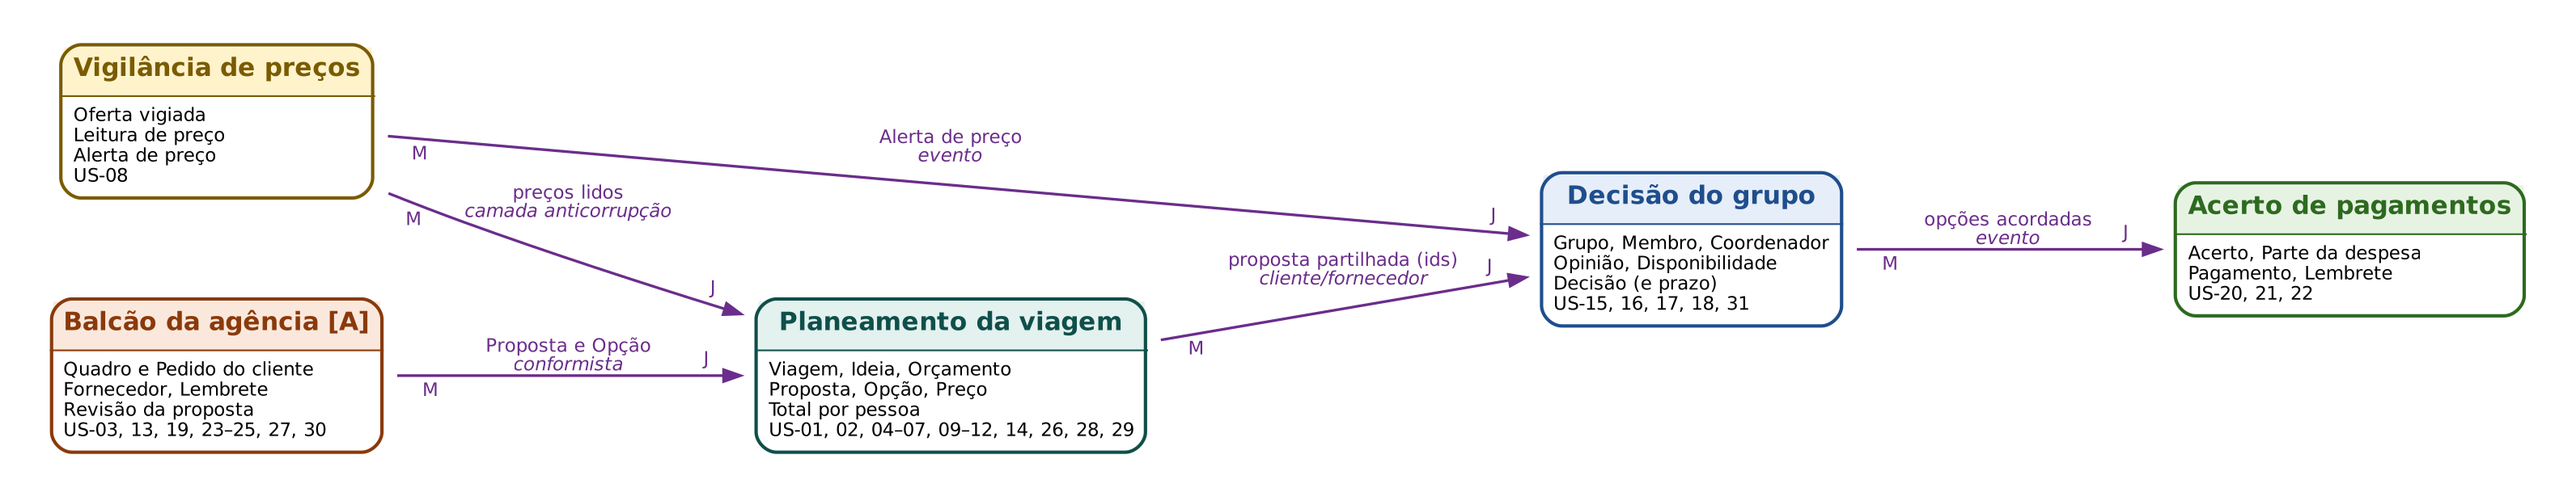
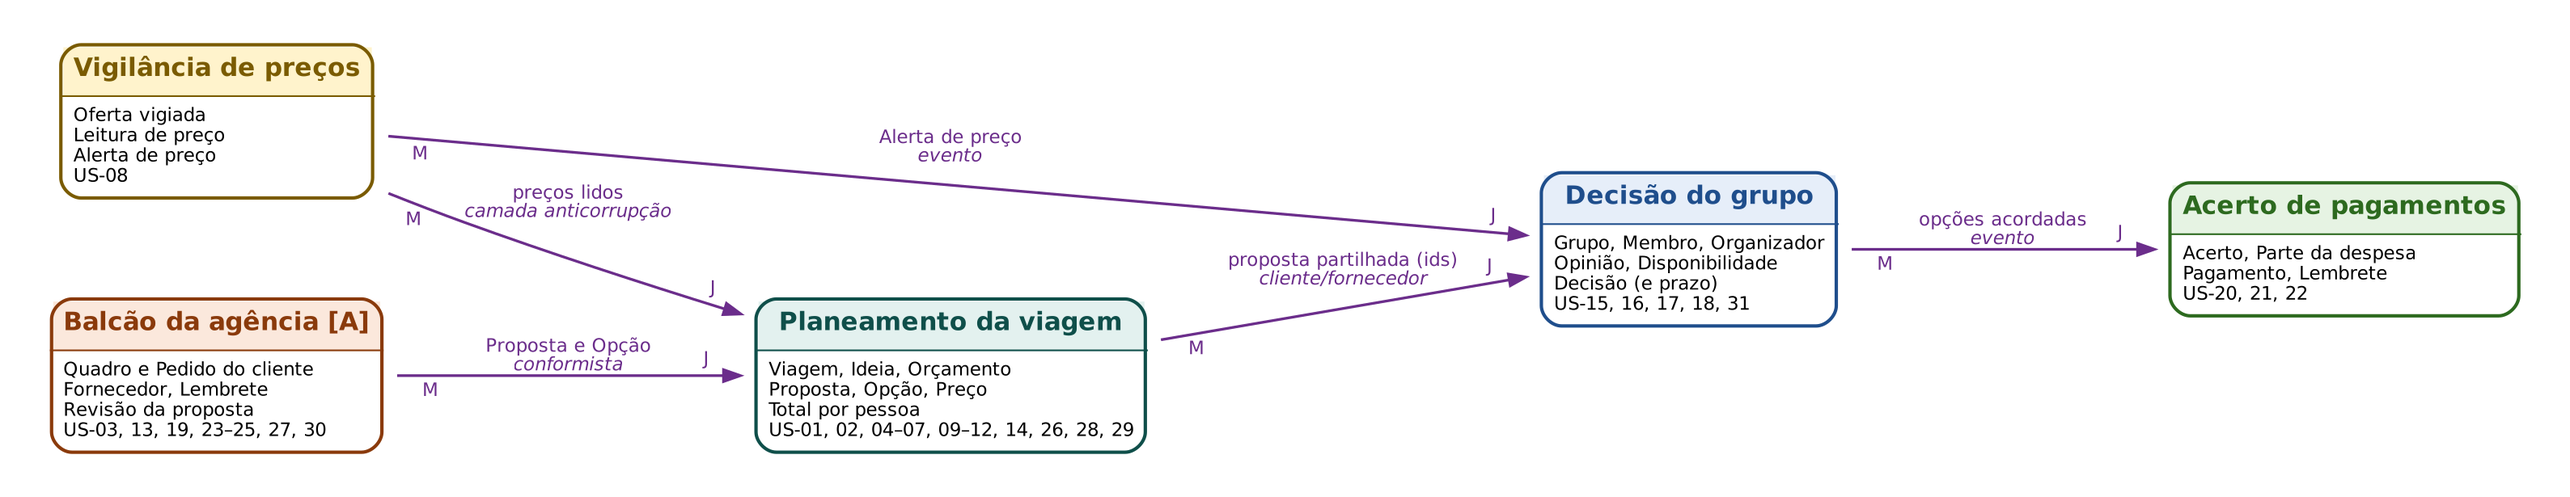
trocar coordenador por organizador

diff --git a/DOCS/2nd_submission/ddd/contextos_delimitados.tex b/DOCS/2nd_submission/ddd/contextos_delimitados.tex
@@ -8,8 +8,8 @@ O sistema divide-se em cinco contextos delimitados. Cada um tem a sua parte da l
 \toprule \textbf{Contexto} & \textbf{Responsabilidade} & \textbf{Possui} & \textbf{Regras que garante} & \textbf{Histórias} \\ \midrule \endhead
 \textbf{Planeamento da viagem} & Monta a proposta de viagem e diz quanto custa por pessoa. & Viagem (raiz do agregado), Ideia, Orçamento, Proposta, Opção (voo, alojamento, atividade), Preço e Total por pessoa. & O total por pessoa soma só as opções não cortadas e inclui o transporte até ao aeroporto; os extras que o site esconde aparecem \guillemotleft{}por confirmar\guillemotright{}, nunca são omitidos; o Roamly avisa quando o total passa o limite por pessoa. & US-01, 02, 04, 05, 06, 07, 09, 10, 11, 12, 14, 26, 28, 29 \\ \midrule
 \textbf{Vigilância de preços} & Volta a ler continuamente as ligações guardadas e avisa quando o preço sobe. & Oferta vigiada, Leitura de preço e Alerta de preço. & Um alerta mostra só de quanto o preço subiu, sem mensagens de urgência; se a oferta deixa de ser legível, avisa que o preço pode estar desatualizado; o Roamly não congela preços nem reserva. & US-08 (e a leitura automática das US-04 e US-05) \\ \midrule
-\textbf{Decisão do grupo} & Recolhe o que cada pessoa pensa e regista o que o grupo combinou. & Grupo, Membro, Coordenador (o(a) organizador(a) das histórias), Opinião, Disponibilidade e Decisão (com prazo). & Um grupo tem exatamente um coordenador; o coordenador vê em que itens há divergência e quem ainda não respondeu; a decisão fica registada mesmo que faltem respostas, e todos os membros a veem. & US-15, 16, 17, 18, 31 \\ \midrule
-\textbf{Acerto de pagamentos} & Calcula quanto cada pessoa deve e acompanha quem já pagou. & Acerto (raiz do agregado), Parte da despesa, Pagamento e Lembrete de pagamento. & Só o coordenador marca um pagamento como feito; se alguém sai do grupo, as partes dos restantes são recalculadas; o Roamly regista pagamentos mas não os processa. & US-20, 21, 22 \\ \midrule
+\textbf{Decisão do grupo} & Recolhe o que cada pessoa pensa e regista o que o grupo combinou. & Grupo, Membro, Coordenador (o(a) organizador(a) das histórias), Opinião, Disponibilidade e Decisão (com prazo). & Um grupo tem exatamente um organizador; o organizador vê em que itens há divergência e quem ainda não respondeu; a decisão fica registada mesmo que faltem respostas, e todos os membros a veem. & US-15, 16, 17, 18, 31 \\ \midrule
+\textbf{Acerto de pagamentos} & Calcula quanto cada pessoa deve e acompanha quem já pagou. & Acerto (raiz do agregado), Parte da despesa, Pagamento e Lembrete de pagamento. & Só o organizador marca um pagamento como feito; se alguém sai do grupo, as partes dos restantes são recalculadas; o Roamly regista pagamentos mas não os processa. & US-20, 21, 22 \\ \midrule
 \textbf{Balcão da agência {[A]}} & Dá ao agente de viagens um espaço de trabalho por cliente (só na versão para agências). & Quadro do cliente (raiz do agregado), Pedido do cliente, Lembrete no quadro, Fornecedor e Revisão da proposta. & O cliente não vê a proposta antes de o agente a assinar; um pedido com dados em falta é assinalado antes de se montar a proposta; um fornecedor sem preço aparece \guillemotleft{}sem preço\guillemotright{}, nunca como 0 \texteuro{}. & US-03, 13, 19, 23, 24, 25, 27, 30 \\ \bottomrule
 \end{longtable}
 
@@ -23,7 +23,7 @@ O sistema divide-se em cinco contextos delimitados. Cada um tem a sua parte da l
  & Acerto de pagamentos & Não existe como proposta: só as opções acordadas interessam, e transformam-se em partes da despesa. \\
  & Balcão da agência & Um documento no modelo da agência, com logótipo, que o cliente só vê depois de o agente o assinar. \\
 \midrule
-\textbf{Membro} & Decisão do grupo & Pessoa do grupo que dá opinião e indica datas; o coordenador é o membro com o papel de planear. \\
+\textbf{Membro} & Decisão do grupo & Pessoa do grupo que dá opinião e indica datas; o organizador é o membro com o papel de planear. \\
  & Acerto de pagamentos & Devedor de uma parte da despesa; não pode marcar pagamentos. \\
  & Vigilância de preços & Destinatário dos alertas de preço. \\
  & Balcão da agência & Não existe: quem recebe a proposta é o cliente, que não faz parte de nenhum grupo. \\
@@ -38,9 +38,9 @@ O sistema divide-se em cinco contextos delimitados. Cada um tem a sua parte da l
  & Acerto de pagamentos & O montante devido por cada membro (ex.: 98 \texteuro{}). \\
 \midrule
 \textbf{Total por pessoa / Parte da despesa} & Planeamento da viagem & Total por pessoa: estimativa que muda sempre que um item muda e se compara com o limite. \\
- & Acerto de pagamentos & Parte da despesa: valor fixado depois de as opções serem acordadas, com o total que o coordenador tem de adiantar. \\
+ & Acerto de pagamentos & Parte da despesa: valor fixado depois de as opções serem acordadas, com o total que o organizador tem de adiantar. \\
 \midrule
-\textbf{Reservar} & Decisão do grupo e Acerto & O Roamly não reserva: \guillemotleft{}reservar\guillemotright{} é o coordenador sair do Roamly e reservar no site do fornecedor. \\
+\textbf{Reservar} & Decisão do grupo e Acerto & O Roamly não reserva: \guillemotleft{}reservar\guillemotright{} é o organizador sair do Roamly e reservar no site do fornecedor. \\
 \bottomrule
 \end{longtable}
 
@@ -56,7 +56,7 @@ O sistema divide-se em cinco contextos delimitados. Cada um tem a sua parte da l
 \caption{Relações entre contextos.}\label{tab:relacoes}\\
 \toprule \textbf{A montante} & \textbf{A jusante} & \textbf{Relação} & \textbf{O que passa} & \textbf{Histórias} \\ \midrule \endfirsthead
 \toprule \textbf{A montante} & \textbf{A jusante} & \textbf{Relação} & \textbf{O que passa} & \textbf{Histórias} \\ \midrule \endhead
-Vigilância de preços & Planeamento da viagem & Camada anticorrupção (no Planeamento) & Os preços lidos nos sites passam a ser o Preço de uma Opção; se a página não for legível, o coordenador preenche à mão. & US-04, 05, 08 \\
+Vigilância de preços & Planeamento da viagem & Camada anticorrupção (no Planeamento) & Os preços lidos nos sites passam a ser o Preço de uma Opção; se a página não for legível, o organizador preenche à mão. & US-04, 05, 08 \\
 Planeamento da viagem & Decisão do grupo & Cliente/Fornecedor & A proposta partilhada; a Decisão do grupo só guarda IdDaProposta e IdDaOpção e vê sempre a versão atualizada. & US-14, 15, 16 \\
 Vigilância de preços & Decisão do grupo & Evento publicado & O Alerta de preço chega a todos os membros do grupo, haja ou não prazo. & US-08 \\
 Decisão do grupo & Acerto de pagamentos & Evento publicado & As opções acordadas dão origem às partes da despesa. & US-18, 20 \\

diff --git a/DOCS/2nd_submission/ddd/glossario.tex b/DOCS/2nd_submission/ddd/glossario.tex
@@ -6,7 +6,7 @@
 \multicolumn{2}{@{}l}{\textbf{Planeamento da viagem}} \\ \midrule
 Viagem & A viagem que o grupo quer fazer: destino, datas possíveis e tudo o que se planeia à volta. É a raiz do contexto.  \\
 Ideia & Uma ligação de vídeo ou um texto que dá início a uma viagem, guardada com a origem à vista. O sistema nunca interpreta o vídeo; pede o destino em texto.  \\
-Orçamento & O limite por pessoa definido pelo coordenador. Todos os preços mostrados são comparados com ele.  \\
+Orçamento & O limite por pessoa definido pelo organizador. Todos os preços mostrados são comparados com ele.  \\
 Proposta & O que o grupo vê para decidir: as opções, os preços e o total por pessoa, partilhados numa só ligação. Reflete sempre as alterações posteriores.  \\
 Opção & Uma coisa que pode entrar numa proposta (voo, alojamento ou atividade), com ligação de origem, preço e estado: candidata, cortada (riscada mas visível) ou acordada.  \\
 Opção de voo / alojamento / atividade & Tipos de Opção. Um voo sabe se não há transporte para o aeroporto à hora de partida; um alojamento tem noites e preço por noite; uma atividade (do roteiro da IA) fica confirmada ou descartada depois de verificada no mapa.  \\
@@ -14,23 +14,23 @@ Preço & Preço base mais extras (p. ex. bagagem de porão), dando o preço fina
 Total por pessoa & Soma do preço final por pessoa de todas as opções não cortadas, mais o transporte até ao aeroporto. Avisa quando ultrapassa o Orçamento.  \\
 \midrule
 \multicolumn{2}{@{}l}{\textbf{Decisão do grupo}} \\ \midrule
-Grupo & As pessoas que viajam juntas. Tem exatamente um coordenador.  \\
+Grupo & As pessoas que viajam juntas. Tem exatamente um organizador.  \\
 Membro & Uma pessoa do grupo que pode dar opiniões e indicar disponibilidade.  \\
-Coordenador & O membro que planeia: partilha a proposta, define o prazo, regista decisões e pagamentos. Só o coordenador pode marcar um pagamento como feito.  \\
-Opinião (\guillemotleft{}Concordo\guillemotright{} / \guillemotleft{}Prefiro outra\guillemotright{}) & A posição de um membro sobre uma opção. O coordenador vê em que itens há divergência antes de sair do Roamly para reservar.  \\
+Coordenador & O membro que planeia: partilha a proposta, define o prazo, regista decisões e pagamentos. Só o organizador pode marcar um pagamento como feito.  \\
+Opinião (\guillemotleft{}Concordo\guillemotright{} / \guillemotleft{}Prefiro outra\guillemotright{}) & A posição de um membro sobre uma opção. O organizador vê em que itens há divergência antes de sair do Roamly para reservar.  \\
 Disponibilidade & Se um membro pode nas datas propostas, ou em que outras datas pode.  \\
 Decisão & O que o grupo combinou, com um prazo enquanto está aberta. Fica junto das opções a que se refere.  \\
 \midrule
 \multicolumn{2}{@{}l}{\textbf{Vigilância de preços}} \\ \midrule
-Oferta vigiada & Uma ligação guardada que o Roamly volta a ler continuamente. Se não a conseguir ler, o coordenador preenche o preço à mão.  \\
+Oferta vigiada & Uma ligação guardada que o Roamly volta a ler continuamente. Se não a conseguir ler, o organizador preenche o preço à mão.  \\
 Leitura de preço & Um preço lido num dado momento.  \\
 Alerta de preço & Gerado quando o preço de uma oferta vigiada sobe: mostra de quanto e notifica todos os membros do grupo, haja ou não um prazo pendente. O Roamly não congela preços nem reserva.  \\
 \midrule
 \multicolumn{2}{@{}l}{\textbf{Acerto de pagamentos}} \\ \midrule
-Acerto & Tudo o que é devido numa viagem depois de as opções serem acordadas, incluindo o que o coordenador tem de adiantar.  \\
+Acerto & Tudo o que é devido numa viagem depois de as opções serem acordadas, incluindo o que o organizador tem de adiantar.  \\
 Parte da despesa & O que cada membro deve, calculado a partir das opções acordadas.  \\
-Pagamento & Um registo de que um membro pagou a sua parte, feito pelo coordenador. O Roamly regista; não processa dinheiro.  \\
-Lembrete de pagamento & Enviado aos membros cuja parte não está marcada como paga, na altura que o coordenador escolher.  \\
+Pagamento & Um registo de que um membro pagou a sua parte, feito pelo organizador. O Roamly regista; não processa dinheiro.  \\
+Lembrete de pagamento & Enviado aos membros cuja parte não está marcada como paga, na altura que o organizador escolher.  \\
 \midrule
 \multicolumn{2}{@{}l}{\textbf{Balcão da agência {[A]}}} \\ \midrule
 Quadro do cliente & Um quadro por cliente, com os pedidos pendentes e as propostas por enviar.  \\

diff --git a/DOCS/2nd_submission/ddd/contextos_delimitados.md b/DOCS/2nd_submission/ddd/contextos_delimitados.md
@@ -8,8 +8,8 @@ O sistema divide-se em cinco contextos delimitados. Cada um tem a sua parte da l
 |---|---|---|---|---|
 | **Planeamento da viagem** | Monta a proposta de viagem e diz quanto custa por pessoa. | Viagem (raiz do agregado), Ideia, Orçamento, Proposta, Opção (voo, alojamento, atividade), Preço e Total por pessoa. | O total por pessoa soma só as opções não cortadas e inclui o transporte até ao aeroporto; os extras que o site esconde aparecem «por confirmar», nunca são omitidos; o Roamly avisa quando o total passa o limite por pessoa. | US-01, 02, 04, 05, 06, 07, 09, 10, 11, 12, 14, 26, 28, 29 |
 | **Vigilância de preços** | Volta a ler continuamente as ligações guardadas e avisa quando o preço sobe. | Oferta vigiada, Leitura de preço e Alerta de preço. | Um alerta mostra só de quanto o preço subiu, sem mensagens de urgência; se a oferta deixa de ser legível, avisa que o preço pode estar desatualizado; o Roamly não congela preços nem reserva. | US-08 (e a leitura automática das US-04 e US-05) |
-| **Decisão do grupo** | Recolhe o que cada pessoa pensa e regista o que o grupo combinou. | Grupo, Membro, Coordenador (o(a) organizador(a) das histórias), Opinião, Disponibilidade e Decisão (com prazo). | Um grupo tem exatamente um coordenador; o coordenador vê em que itens há divergência e quem ainda não respondeu; a decisão fica registada mesmo que faltem respostas, e todos os membros a veem. | US-15, 16, 17, 18, 31 |
-| **Acerto de pagamentos** | Calcula quanto cada pessoa deve e acompanha quem já pagou. | Acerto (raiz do agregado), Parte da despesa, Pagamento e Lembrete de pagamento. | Só o coordenador marca um pagamento como feito; se alguém sai do grupo, as partes dos restantes são recalculadas; o Roamly regista pagamentos mas não os processa. | US-20, 21, 22 |
+| **Decisão do grupo** | Recolhe o que cada pessoa pensa e regista o que o grupo combinou. | Grupo, Membro, Coordenador (o(a) organizador(a) das histórias), Opinião, Disponibilidade e Decisão (com prazo). | Um grupo tem exatamente um organizador; o organizador vê em que itens há divergência e quem ainda não respondeu; a decisão fica registada mesmo que faltem respostas, e todos os membros a veem. | US-15, 16, 17, 18, 31 |
+| **Acerto de pagamentos** | Calcula quanto cada pessoa deve e acompanha quem já pagou. | Acerto (raiz do agregado), Parte da despesa, Pagamento e Lembrete de pagamento. | Só o organizador marca um pagamento como feito; se alguém sai do grupo, as partes dos restantes são recalculadas; o Roamly regista pagamentos mas não os processa. | US-20, 21, 22 |
 | **Balcão da agência [A]** | Dá ao agente de viagens um espaço de trabalho por cliente (só na versão para agências). | Quadro do cliente (raiz do agregado), Pedido do cliente, Lembrete no quadro, Fornecedor e Revisão da proposta. | O cliente não vê a proposta antes de o agente a assinar; um pedido com dados em falta é assinalado antes de se montar a proposta; um fornecedor sem preço aparece «sem preço», nunca como 0 €. | US-03, 13, 19, 23, 24, 25, 27, 30 |
 
 ## 2. Termos que mudam de significado
@@ -20,7 +20,7 @@ O sistema divide-se em cinco contextos delimitados. Cada um tem a sua parte da l
 |  | Decisão do grupo | O que o grupo avalia: é só referida por identificador; sobre ela os membros dão opinião e disponibilidade e dela sai a decisão. |
 |  | Acerto de pagamentos | Não existe como proposta: só as opções acordadas interessam, e transformam-se em partes da despesa. |
 |  | Balcão da agência | Um documento no modelo da agência, com logótipo, que o cliente só vê depois de o agente o assinar. |
-| **Membro** | Decisão do grupo | Pessoa do grupo que dá opinião e indica datas; o coordenador é o membro com o papel de planear. |
+| **Membro** | Decisão do grupo | Pessoa do grupo que dá opinião e indica datas; o organizador é o membro com o papel de planear. |
 |  | Acerto de pagamentos | Devedor de uma parte da despesa; não pode marcar pagamentos. |
 |  | Vigilância de preços | Destinatário dos alertas de preço. |
 |  | Balcão da agência | Não existe: quem recebe a proposta é o cliente, que não faz parte de nenhum grupo. |
@@ -32,8 +32,8 @@ O sistema divide-se em cinco contextos delimitados. Cada um tem a sua parte da l
 |  | Vigilância de preços | Uma leitura num dado momento; só importa a diferença para a anterior. |
 |  | Acerto de pagamentos | O montante devido por cada membro (ex.: 98 €). |
 | **Total por pessoa / Parte da despesa** | Planeamento da viagem | Total por pessoa: estimativa que muda sempre que um item muda e se compara com o limite. |
-|  | Acerto de pagamentos | Parte da despesa: valor fixado depois de as opções serem acordadas, com o total que o coordenador tem de adiantar. |
-| **Reservar** | Decisão do grupo e Acerto | O Roamly não reserva: «reservar» é o coordenador sair do Roamly e reservar no site do fornecedor. |
+|  | Acerto de pagamentos | Parte da despesa: valor fixado depois de as opções serem acordadas, com o total que o organizador tem de adiantar. |
+| **Reservar** | Decisão do grupo e Acerto | O Roamly não reserva: «reservar» é o organizador sair do Roamly e reservar no site do fornecedor. |
 
 ## 3. Relações entre contextos
 
@@ -43,7 +43,7 @@ M = a montante (fornece), J = a jusante (consome).
 
 | A montante | A jusante | Relação | O que passa | Histórias |
 |---|---|---|---|---|
-| Vigilância de preços | Planeamento da viagem | Camada anticorrupção (no Planeamento) | Os preços lidos nos sites passam a ser o Preço de uma Opção; se a página não for legível, o coordenador preenche à mão. | US-04, 05, 08 |
+| Vigilância de preços | Planeamento da viagem | Camada anticorrupção (no Planeamento) | Os preços lidos nos sites passam a ser o Preço de uma Opção; se a página não for legível, o organizador preenche à mão. | US-04, 05, 08 |
 | Planeamento da viagem | Decisão do grupo | Cliente/Fornecedor | A proposta partilhada; a Decisão do grupo só guarda IdDaProposta e IdDaOpção e vê sempre a versão atualizada. | US-14, 15, 16 |
 | Vigilância de preços | Decisão do grupo | Evento publicado | O Alerta de preço chega a todos os membros do grupo, haja ou não prazo. | US-08 |
 | Decisão do grupo | Acerto de pagamentos | Evento publicado | As opções acordadas dão origem às partes da despesa. | US-18, 20 |

diff --git a/DOCS/2nd_submission/ddd/glossario.md b/DOCS/2nd_submission/ddd/glossario.md
@@ -8,7 +8,7 @@ Os termos são os do relatório e da interface.
 |---|---|
 | **Viagem** | A viagem que o grupo quer fazer: destino, datas possíveis e tudo o que se planeia à volta. É a raiz do contexto. |
 | **Ideia** | Uma ligação de vídeo ou um texto que dá início a uma viagem, guardada com a origem à vista. O sistema nunca interpreta o vídeo; pede o destino em texto. |
-| **Orçamento** | O limite por pessoa definido pelo coordenador. Todos os preços mostrados são comparados com ele. |
+| **Orçamento** | O limite por pessoa definido pelo organizador. Todos os preços mostrados são comparados com ele. |
 | **Proposta** | O que o grupo vê para decidir: as opções, os preços e o total por pessoa, partilhados numa só ligação. Reflete sempre as alterações posteriores. |
 | **Opção** | Uma coisa que pode entrar numa proposta (voo, alojamento ou atividade), com ligação de origem, preço e estado: candidata, cortada (riscada mas visível) ou acordada. |
 | **Opção de voo / alojamento / atividade** | Tipos de Opção. Um voo sabe se não há transporte para o aeroporto à hora de partida; um alojamento tem noites e preço por noite; uma atividade (do roteiro da IA) fica confirmada ou descartada depois de verificada no mapa. |
@@ -19,10 +19,10 @@ Os termos são os do relatório e da interface.
 
 | Termo | Significado |
 |---|---|
-| **Grupo** | As pessoas que viajam juntas. Tem exatamente um coordenador. |
+| **Grupo** | As pessoas que viajam juntas. Tem exatamente um organizador. |
 | **Membro** | Uma pessoa do grupo que pode dar opiniões e indicar disponibilidade. |
-| **Coordenador** | O membro que planeia: partilha a proposta, define o prazo, regista decisões e pagamentos. Só o coordenador pode marcar um pagamento como feito. |
-| **Opinião («Concordo» / «Prefiro outra»)** | A posição de um membro sobre uma opção. O coordenador só reserva quando todos concordam. |
+| **Coordenador** | O membro que planeia: partilha a proposta, define o prazo, regista decisões e pagamentos. Só o organizador pode marcar um pagamento como feito. |
+| **Opinião («Concordo» / «Prefiro outra»)** | A posição de um membro sobre uma opção. O organizador só reserva quando todos concordam. |
 | **Disponibilidade** | Se um membro pode nas datas propostas, ou em que outras datas pode. |
 | **Decisão** | O que o grupo combinou, com um prazo enquanto está aberta. Fica junto das opções a que se refere. |
 
@@ -30,7 +30,7 @@ Os termos são os do relatório e da interface.
 
 | Termo | Significado |
 |---|---|
-| **Oferta vigiada** | Uma ligação guardada que o Roamly volta a ler continuamente. Se não a conseguir ler, o coordenador preenche o preço à mão. |
+| **Oferta vigiada** | Uma ligação guardada que o Roamly volta a ler continuamente. Se não a conseguir ler, o organizador preenche o preço à mão. |
 | **Leitura de preço** | Um preço lido num dado momento. |
 | **Alerta de preço** | Gerado quando o preço de uma oferta vigiada sobe: mostra de quanto e notifica todos os membros do grupo, haja ou não um prazo pendente. O Roamly não congela preços nem reserva. |
 
@@ -38,10 +38,10 @@ Os termos são os do relatório e da interface.
 
 | Termo | Significado |
 |---|---|
-| **Acerto** | Tudo o que é devido numa viagem depois de as opções serem acordadas, incluindo o que o coordenador tem de adiantar. |
+| **Acerto** | Tudo o que é devido numa viagem depois de as opções serem acordadas, incluindo o que o organizador tem de adiantar. |
 | **Parte da despesa** | O que cada membro deve, calculado a partir das opções acordadas. |
-| **Pagamento** | Um registo de que um membro pagou a sua parte, feito pelo coordenador. O Roamly regista; não processa dinheiro. |
-| **Lembrete de pagamento** | Enviado aos membros cuja parte não está marcada como paga, na altura que o coordenador escolher. |
+| **Pagamento** | Um registo de que um membro pagou a sua parte, feito pelo organizador. O Roamly regista; não processa dinheiro. |
+| **Lembrete de pagamento** | Enviado aos membros cuja parte não está marcada como paga, na altura que o organizador escolher. |
 
 ## Balcão da agência [A]
 
